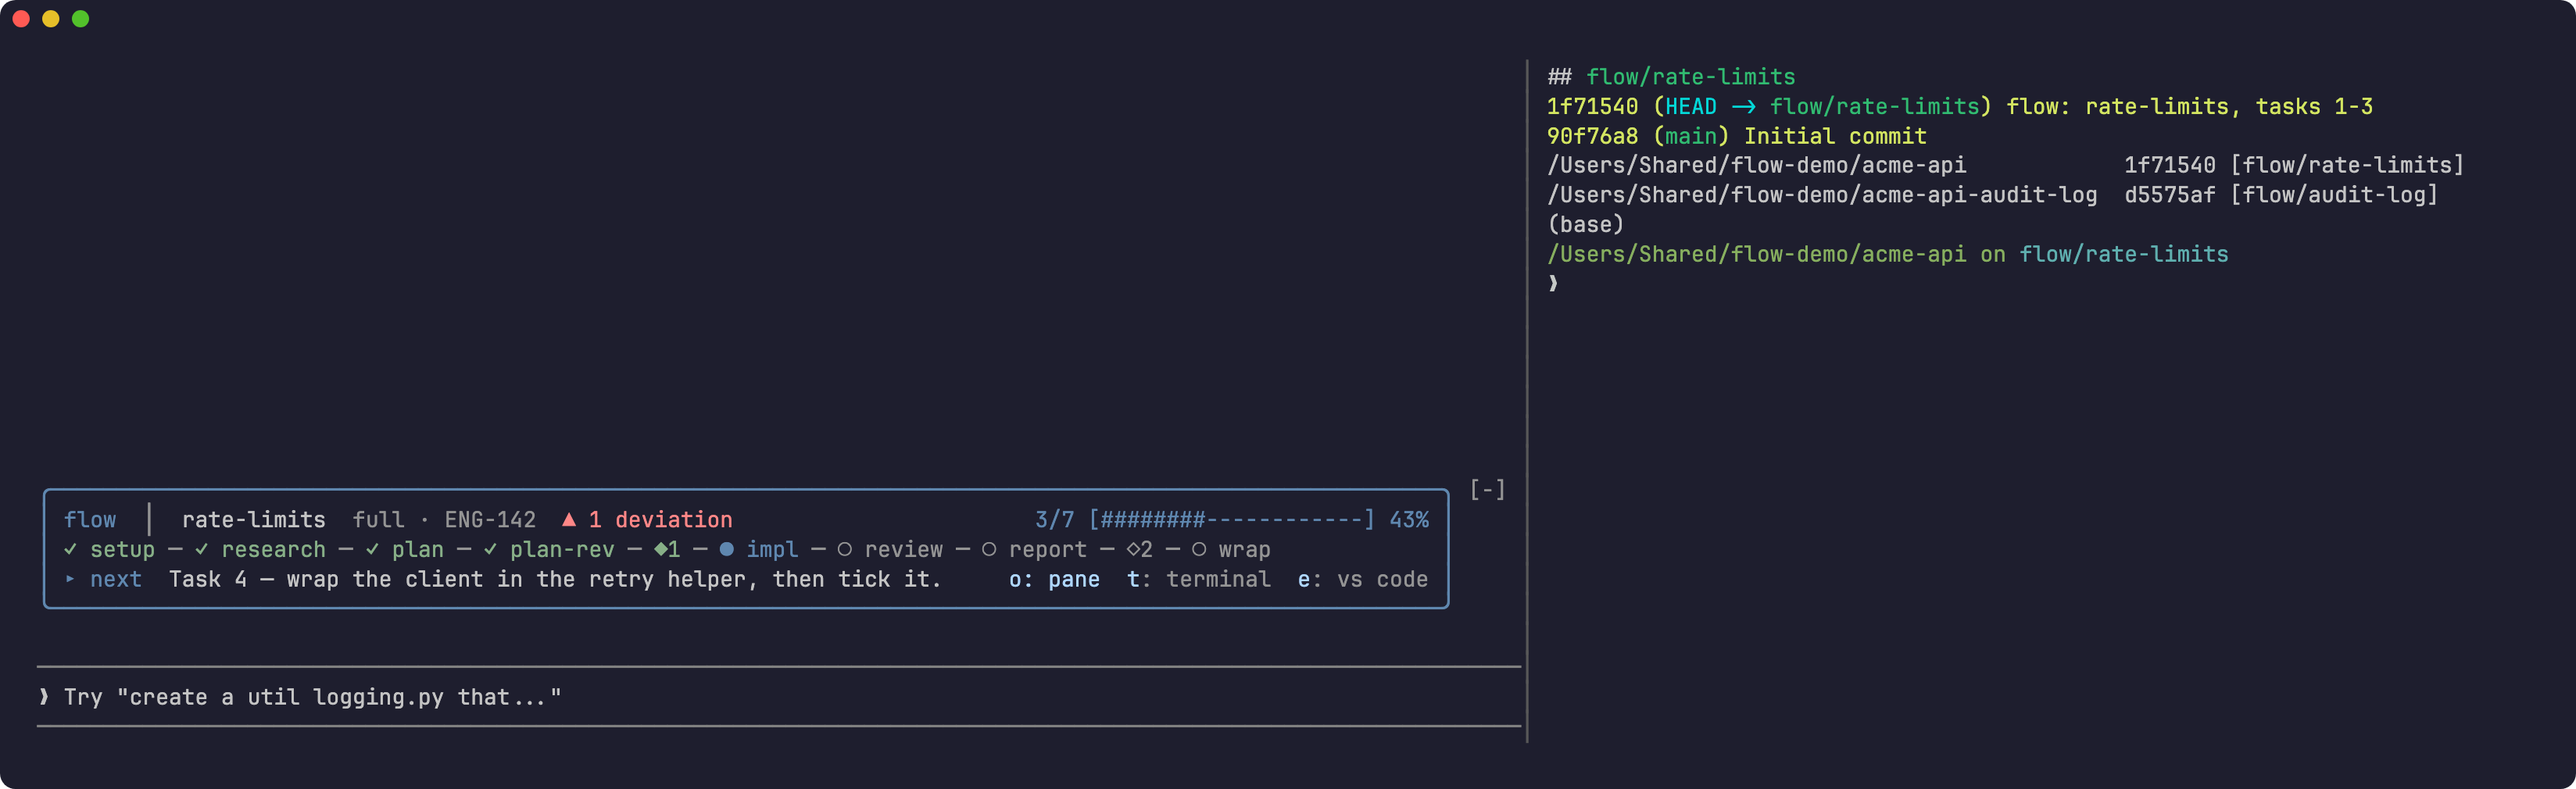
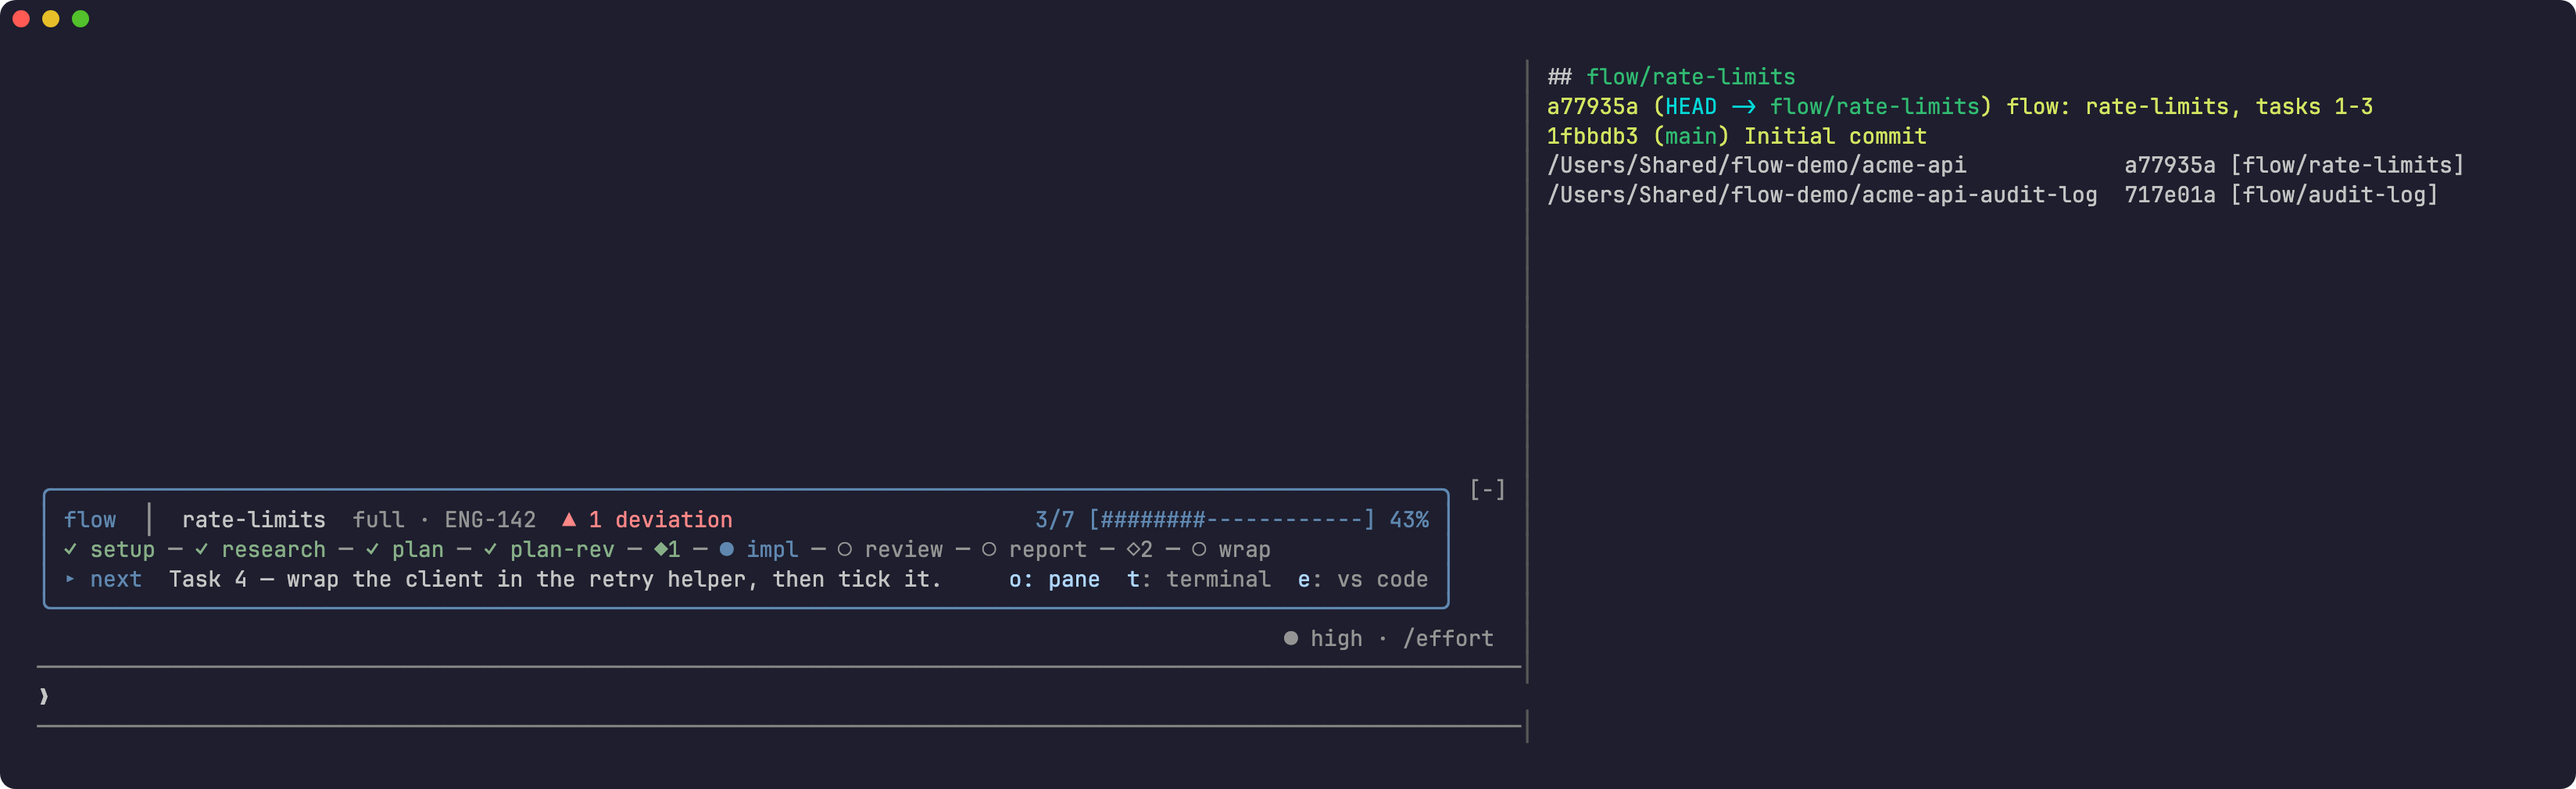
Retake the README images anywhere, from the checkout being changed
shoot.py now runs the same on any machine and for any agent:

- Claude Code loads flow from this checkout (--plugin-dir), with an
  installed flow@flow switched off, so the shots show the branch's code.
- The font is JetBrains Mono 2.304, fetched once to ~/.cache/flow/fonts and
  checked against a pinned hash (byte-identical to the one used so far).
  FONT still overrides it.
- `--check` lists missing tools with the install command for each, and every
  run checks first. Output defaults to docs/images; `--out` changes it.
- The demo dir is /Users/Shared/flow-demo on macOS, /tmp/flow-demo
  elsewhere, FLOW_DEMO_DIR to override. render.sh finds Chrome or Chromium
  on Linux too.
- The setup shot is skipped outside iTerm instead of capturing failures.

Retakes are now reproducible: the seven model-free shots come out
byte-identical run to run. Demo commits have fixed dates (stable hashes in
split.png), the prompt's rotating "Try ..." tip is blanked, flow@inline is
shown as flow@flow, and split.png stops before this machine's shell prompt.
Typed prompts wait until they reach the prompt and are sent, fixing a
`blocked` shot that intermittently timed out.

CLAUDE.md gains a "README images" section: which image shows what, what
change calls for a retake, and how to run and check it. .gitignore covers
the types and tsconfig.json Claude Code writes into a --plugin-dir folder.

Patch bump: 0.8.1 → 0.8.2.

diff --git a/scripts/demo/shoot.py b/scripts/demo/shoot.py
@@ -1,30 +1,47 @@
 #!/usr/bin/env python3
 """Capture the README's screenshots from a live Claude Code session.
 
-    scripts/demo/shoot.py OUT_DIR [SHOT ...]
+    scripts/demo/shoot.py [--check] [--out DIR] [SHOT ...]
 
-Builds the demo repo (make-demo-repo.sh) under /tmp/flowdemo, drives Claude
-Code in a detached tmux session for each shot, crops the screen to the part
-that shows flow, and renders it with render.sh. Needs tmux, freeze, Chrome,
-FONT (see render.sh), and flow installed in Claude Code. The first run asks
-Claude Code to trust the demo folders; this answers yes.
+Builds the demo repo (make-demo-repo.sh) in DEMO (below), drives Claude Code
+in a detached tmux session for each shot, crops the screen to the part that
+shows flow, and renders it with render.sh into DIR (default: docs/images).
+Claude Code loads flow from this checkout (--plugin-dir), with any installed
+copy switched off, so the shots show the code you're changing. The first run
+asks Claude Code to trust the demo folders; this answers yes.
+
+Needs tmux, freeze, Chrome or Chromium, claude, and (for `gif`) ffmpeg.
+`--check` lists what's missing and how to install it; every run checks first.
+The font is JetBrains Mono 2.304, downloaded once to ~/.cache/flow/fonts
+unless FONT names a .ttf.
 
 Shots: hero gate status pane-progress pane-tasks setup blocked split gif
 (default: all). `split` presses `t` with the terminal set to tmux, so flow
-splits this tmux window for real; `gif` approves gate 1 for real — one model
-turn — and needs ffmpeg.
+splits this tmux window for real. `blocked` and `gif` each take a real model
+turn. `setup` shows /flow-term setup's iTerm checklist, so it needs this run
+started inside iTerm with its Python API on; elsewhere it's skipped.
 """
+import argparse
+import hashlib
+import io
 import json
 import os
 import re
+import shlex
+import shutil
 import subprocess
 import sys
 import time
+import urllib.request
+import zipfile
 from pathlib import Path
 
 HERE = Path(__file__).resolve().parent
-# not /tmp: macOS resolves it to /private/tmp, which shows in the pane's paths
-DEMO = Path("/Users/Shared/flow-demo")
+PLUGIN_ROOT_PATH = HERE.parent.parent
+PLUGIN_ROOT = str(PLUGIN_ROOT_PATH)
+# not /tmp on macOS: it resolves to /private/tmp, which shows in the pane's paths
+DEMO = Path(os.environ.get("FLOW_DEMO_DIR")
+            or ("/Users/Shared/flow-demo" if sys.platform == "darwin" else "/tmp/flow-demo"))
 REPO = DEMO / "acme-api"
 WORKTREE = DEMO / "acme-api-audit-log"
 SESSION = "flowshot"
@@ -54,16 +71,55 @@ def keys(*k):
     tmux("send-keys", "-t", SESSION, *k)
 
 
-def start(cwd, settings=None, cols=COLS, rows=ROWS):
-    # tmux hides the terminal's dark background from Claude Code, which then
-    # picks its light theme; say dark, as the person's terminal would
-    settings = json.dumps({"theme": "dark", **(settings or {})})
+def composer():
+    """The prompt line's text: the last row starting ❯."""
+    rows = [plain(l) for l in screen().split("\n") if plain(l).startswith("❯")]
+    return rows[-1][1:].strip() if rows else ""
+
+
+def submit(text):
+    """Type text into the prompt and send it. Early in a session a key can
+    arrive late or not at all, so wait for the text to show, then press Enter
+    until the prompt lets go of it."""
+    keys(text)
+    end = time.time() + 15
+    while text not in composer():
+        if time.time() > end:
+            raise SystemExit(f"{text!r} never reached the prompt:\n{screen()}")
+        time.sleep(0.3)
+    send(text)
+
+
+def send(text):
+    """Press Enter until the prompt, holding text, lets go of it."""
+    for _ in range(3):
+        keys("Enter")
+        end = time.time() + 3
+        while time.time() < end:
+            time.sleep(0.3)
+            if text not in composer():
+                return
+    raise SystemExit(f"Enter didn't send {text!r}:\n{screen()}")
+
+
+def start(cwd, options=None, cols=COLS, rows=ROWS):
+    """Claude Code in cwd, with flow from this checkout and `options` as its
+    settings (terminal, splitSide, ...)."""
+    settings = json.dumps({
+        # tmux hides the terminal's dark background from Claude Code, which
+        # then picks its light theme; say dark, as the person's terminal would
+        "theme": "dark",
+        # an installed flow would load beside this checkout's
+        "enabledPlugins": {"flow@flow": False},
+        # a --plugin-dir plugin reads its options under its bare name
+        "pluginConfigs": {"flow": {"options": options or {}}},
+    })
     tmux("kill-session", "-t", SESSION, check=False)
     tmux("new-session", "-d", "-s", SESSION, "-x", str(cols), "-y", str(rows), "-c", str(cwd))
     # Claude Code shows a tip under the prompt when tmux lacks these
     tmux("set", "-t", SESSION, "-g", "mouse", "on")
     tmux("set", "-t", SESSION, "-g", "focus-events", "on")
-    cmd = f"clear && claude --settings '{settings}'"
+    cmd = f"clear && claude --plugin-dir {shlex.quote(PLUGIN_ROOT)} --settings {shlex.quote(settings)}"
     keys(cmd, "Enter")
     end = time.time() + 30
     while time.time() < end:
@@ -75,7 +131,16 @@ def start(cwd, settings=None, cols=COLS, rows=ROWS):
             break
         time.sleep(0.5)
     wait_for(r"flow\s+│")  # the band's heading: the mod has loaded and read the repo
-    time.sleep(2)
+    # a key sent in the first seconds after that can be lost; probe until the
+    # prompt takes one, then clear it
+    end = time.time() + 30
+    while time.time() < end:
+        keys("C-u", "x")
+        time.sleep(0.7)
+        if re.search(r"^❯\s+x\s*$", screen(), re.M):
+            break
+    keys("C-u")
+    time.sleep(1)
 
 
 def lines():
@@ -147,19 +212,23 @@ def crop_cols(line, c0):
     return "".join(out)
 
 
-PLUGIN_ROOT = str(HERE.parent.parent)
 
 
 HEADER = re.compile(r"Claude Code v\d|with \w+ effort|^\s*[▐▝▘▛▜█]{2}")
 
 
 def tidy(ls, collapse=True):
-    """Paths as they're configured, not as this machine expands them, and
-    (with `collapse`) no run of more than one blank line."""
+    """Paths as they're configured, not as this machine expands them; flow
+    named as an install names it; an empty prompt in place of Claude Code's
+    rotating "Try ..." tip, so a retake changes only what changed; and (with
+    `collapse`) no run of more than one blank line."""
     out = []
     for line in ls:
         line = line.replace(PLUGIN_ROOT, "${CLAUDE_PLUGIN_ROOT}").replace(str(Path.home()), "~")
+        line = line.replace("flow@inline", "flow@flow")  # --plugin-dir's name for it
         line = re.sub(r" · Claude (Max|Pro|Team|Enterprise)\b", "", line)  # the account's plan, in the header
+        if re.match(r'❯\s+Try "', plain(line)):
+            line = line[:line.index("❯") + 1] + "\x1b[0m"
         if collapse and not plain(line).strip() and out and not plain(out[-1]).strip():
             continue
         out.append(line)
@@ -196,9 +265,7 @@ def shot_gate(out):
 
 def shot_status(out):
     start(REPO)
-    keys("/flow-status")
-    time.sleep(1)
-    keys("Enter")
+    submit("/flow-status")
     wait_for(r"other active tasks")
     time.sleep(1)
     ls = lines()
@@ -208,9 +275,7 @@ def shot_status(out):
 
 def pane(out, name, tab_key=None):
     start(REPO, cols=170, rows=50)
-    keys("/flow-pane")
-    time.sleep(1)
-    keys("Enter")
+    submit("/flow-pane")
     wait_for(r"Phases")
     if tab_key:
         keys(tab_key)
@@ -235,10 +300,8 @@ def shot_pane_tasks(out):
 
 
 def shot_setup(out):
-    start(REPO, {"pluginConfigs": {"flow@flow": {"options": {"splitSide": "left", "splitSize": 30}}}})
-    keys("/flow-term setup")
-    time.sleep(1)
-    keys("Enter")
+    start(REPO, {"splitSide": "left", "splitSize": 30})
+    submit("/flow-term setup")
     wait_for(r"✓ ready|▲ .*\n.*▸", 120)
     time.sleep(1)
     ls = lines()
@@ -248,9 +311,7 @@ def shot_setup(out):
 
 def shot_blocked(out):
     start(WORKTREE)
-    keys("Use the Edit tool to add a one-line comment at the top of src/server.ts saying what it does.")
-    time.sleep(1)
-    keys("Enter")
+    submit("Use the Edit tool to add a one-line comment at the top of src/server.ts saying what it does.")
     wait_for(r"flow blocked", 180)
     time.sleep(0.3)
     # the refused edit in the transcript, down to the straw band below it
@@ -282,9 +343,15 @@ def shot_gif(out):
     start(WORKTREE, cols=GIF_COLS, rows=GIF_ROWS + 6)
     grab(2.5)
     keys("C-x"); time.sleep(0.3); keys("Tab"); time.sleep(0.8)
-    keys("a"); time.sleep(1.2)
+    keys("a")
+    end = time.time() + 10
+    while not composer() or composer().startswith('Try "'):  # the drafted reply, not the placeholder
+        if time.time() > end:
+            raise SystemExit(f"`a` drafted nothing:\n{screen()}")
+        time.sleep(0.3)
+    time.sleep(0.8)
     grab(2.5)
-    keys("Enter")
+    send(composer())
     end = time.time() + 240
     while time.time() < end:
         time.sleep(1)
@@ -323,7 +390,7 @@ GIF_COLS, GIF_ROWS = 104, 26
 def shot_split(out):
     """`t` beside the session: flow's terminal setting at tmux, a split on the
     right at 40%, and a command run there, both panes captured side by side."""
-    start(REPO, {"pluginConfigs": {"flow@flow": {"options": {"terminal": "tmux", "splitSide": "right", "splitSize": 40}}}},
+    start(REPO, {"terminal": "tmux", "splitSide": "right", "splitSize": 40},
           cols=190, rows=26)
     first = tmux("display", "-p", "-t", SESSION, "#{pane_id}").strip()
     keys("C-x"); time.sleep(0.3); keys("Tab"); time.sleep(0.8); keys("t")
@@ -340,6 +407,8 @@ def shot_split(out):
     time.sleep(1)
     cap = lambda p: tmux("capture-pane", "-p", "-e", "-N", "-t", p).split("\n")
     left, right = cap(first), cap(other)
+    # the command's output, not the shell prompt after it (that's this machine's)
+    right = right[:index(right, r"acme-api-audit-log", last=True) + 1]
     bottom = index(left, r"^─{30,}", last=True)  # the composer's lower rule; the status line goes
     width = max(len(plain(l)) for l in left[:bottom + 1])
     rows = []
@@ -359,17 +428,93 @@ SHOTS = {
 }
 
 
+FONT_URL = "https://github.com/JetBrains/JetBrainsMono/releases/download/v2.304/JetBrainsMono-2.304.zip"
+FONT_TTF = "fonts/ttf/JetBrainsMono-Regular.ttf"
[1 lines of base64/hex data omitted]
+FONT_CACHE = Path(os.environ.get("XDG_CACHE_HOME") or Path.home() / ".cache") / "flow/fonts/JetBrainsMono-Regular.ttf"
+
+
+def font():
+    """FONT if set, else the pinned JetBrains Mono, fetched once and checked
+    against its hash, so every machine renders the same glyphs."""
+    if os.environ.get("FONT"):
+        return Path(os.environ["FONT"])
+    if not FONT_CACHE.is_file():
+        print(f"fetching JetBrains Mono 2.304 to {FONT_CACHE}")
+        with urllib.request.urlopen(FONT_URL, timeout=60) as r:
+            ttf = zipfile.ZipFile(io.BytesIO(r.read())).read(FONT_TTF)
+        if hashlib.sha256(ttf).hexdigest() != FONT_SHA256:
+            raise SystemExit(f"{FONT_URL}: {FONT_TTF} doesn't match its pinned hash")
+        FONT_CACHE.parent.mkdir(parents=True, exist_ok=True)
+        FONT_CACHE.write_bytes(ttf)
+    return FONT_CACHE
+
+
+def chrome():
+    """The browser render.sh would use: CHROME, else Chrome where macOS
+    installs it, else a Chrome or Chromium on PATH."""
+    if os.environ.get("CHROME"):
+        return os.environ["CHROME"]
+    mac = "/Applications/Google Chrome.app/Contents/MacOS/Google Chrome"
+    if Path(mac).exists():
+        return mac
+    return next(filter(None, map(shutil.which, (
+        "google-chrome", "google-chrome-stable", "chromium", "chromium-browser"))), None)
+
+
+def missing(shots):
+    """What this run needs and doesn't have, each with its fix."""
+    brew = sys.platform == "darwin"
+    need = [
+        ("tmux", shutil.which("tmux"), "brew install tmux" if brew else "install tmux from your package manager"),
+        ("claude", shutil.which("claude"), "install Claude Code: npm install -g @anthropic-ai/claude-code"),
+        # a Homebrew cask is also called freeze; this is Charm's CLI
+        ("freeze", shutil.which("freeze"), "brew install charmbracelet/tap/freeze" if brew
+         else "go install github.com/charmbracelet/freeze@latest"),
+        ("Chrome or Chromium", chrome(), "install Google Chrome, or set CHROME to a Chromium binary"),
+    ]
+    if "gif" in shots:
+        need.append(("ffmpeg", shutil.which("ffmpeg"), "brew install ffmpeg" if brew
+                     else "install ffmpeg from your package manager"))
+    return [(name, fix) for name, found, fix in need if not found]
+
+
 def main(argv):
-    if not argv:
-        raise SystemExit(__doc__)
-    out = Path(argv[0]).resolve()
+    ap = argparse.ArgumentParser(description="Retake the README's screenshots.")
+    ap.add_argument("shots", nargs="*", metavar="SHOT", help=f"any of: {' '.join(SHOTS)} (default: all)")
+    ap.add_argument("--out", type=Path, default=PLUGIN_ROOT_PATH / "docs/images",
+                    help="where the images go (default: docs/images)")
+    ap.add_argument("--check", action="store_true", help="list what's missing, then stop")
+    args = ap.parse_args(argv)
+    unknown = [s for s in args.shots if s not in SHOTS]
+    if unknown:
+        ap.error(f"unknown shot {' '.join(unknown)}; shots are: {' '.join(SHOTS)}")
+    shots = args.shots or list(SHOTS)
+    skipped = []
+    if "setup" in shots and not os.environ.get("ITERM_SESSION_ID"):
+        shots.remove("setup")
+        skipped.append("setup: not run inside iTerm, so /flow-term setup's checklist would show failures")
+
+    gaps = missing(shots)
+    for name, fix in gaps:
+        print(f"✗ {name}: {fix}")
+    for why in skipped:
+        print(f"– skipping {why}")
+    if args.check:
+        font_note = os.environ.get("FONT") or (FONT_CACHE if FONT_CACHE.is_file() else "fetched on first run")
+        print(f"font: {font_note}\ndemo repo: {DEMO}")
+        if not gaps:
+            print(f"✓ ready: {' '.join(shots)}")
+        raise SystemExit(1 if gaps else 0)
+    if gaps:
+        raise SystemExit("install what's missing above, then run again")
+
+    os.environ["FONT"] = str(font())
+    out = args.out.resolve()
     out.mkdir(parents=True, exist_ok=True)
-    os.environ.setdefault("FONT", "")
-    if not os.environ["FONT"]:
-        raise SystemExit("set FONT to a JetBrains Mono .ttf (see render.sh)")
     subprocess.run([str(HERE / "make-demo-repo.sh"), str(DEMO)], check=True, stdout=subprocess.DEVNULL)
     try:
-        for name in argv[1:] or SHOTS:
+        for name in shots:
             SHOTS[name](out)
     finally:
         tmux("kill-session", "-t", SESSION, check=False)

diff --git a/CLAUDE.md b/CLAUDE.md
@@ -46,3 +46,38 @@ CI (`.github/workflows/version-bump.yml`) runs the same script on every PR and
 fails it when the version is unchanged or the manifests disagree. Escape hatch,
 user-only: label the PR `no-version-bump`. The check must be marked required in
 branch protection for `main` to actually block a merge.
+
+## README images
+
+The images in `docs/images/` are captured from a live Claude Code session,
+never drawn by hand. Retake them in the PR that changes what they show:
+
+| Image | Shot | Shows | Retake after changing |
+|---|---|---|---|
+| `hero.png` | `hero` | the rail mid-implementation | the band (`hooks/mod/band.tsx`, `look.tsx`), the snapshot (`hooks/flow_status.py`) |
+| `gate.png` | `gate` | the rail at gate 1 | the band, gate actions |
+| `gate.gif` | `gif` | approving gate 1 (one model turn) | the band, gate actions, phase toasts |
+| `blocked.png` | `blocked` | a refused edit (one model turn) | the validator's message, the refusal toast |
+| `pane-progress.png`, `pane-tasks.png` | `pane-progress`, `pane-tasks` | `/flow-pane` | `hooks/mod/pane.tsx` |
+| `status.png` | `status` | `/flow-status` | `hooks/mod/status.tsx`, `hooks/flow_status.py` |
+| `split.png` | `split` | `t` opening a terminal | `hooks/flow_open.py`, the band's key hints |
+| `setup.png` | `setup` | `/flow-term setup` (iTerm only) | `hooks/flow_iterm.py`, the setup checklist |
+
+    scripts/demo/shoot.py --check     # what's missing, with install commands
+    scripts/demo/shoot.py             # every shot, into docs/images (~6 min)
+    scripts/demo/shoot.py gate hero   # just these
+
+- It loads flow from this checkout, so run it from the branch or worktree
+  being changed, after the code change.
+- It needs tmux, freeze, Chrome or Chromium, claude and ffmpeg. The font is
+  fetched and hash-checked on first run.
+- The `setup` shot runs only inside iTerm with its Python API on. Elsewhere it
+  is skipped and the old image stays.
+- Seven shots are byte-identical from run to run, so if one of their files
+  changed, the picture changed. `blocked` and `gif` include a model turn and
+  differ every run, so retake them only when what they show has changed.
+- Open every image it wrote before committing. Each one should show what the
+  README text next to it says, with no stray toasts, a light theme or cut-off
+  rows. If the README text no longer matches the UI, fix the text too.
+- The demo repo is rebuilt from `scripts/demo/make-demo-repo.sh` each run.
+  Change the fictional tasks there, not by hand.

diff --git a/README.md b/README.md
@@ -177,8 +177,9 @@ python3 scripts/check_version_bump.py main # version is bumped
 
 Every PR bumps the version (see [CLAUDE.md](CLAUDE.md)). The screenshots are
 captured from a live session in a made-up repo by
-[`scripts/demo/shoot.py`](scripts/demo/shoot.py), so they can be retaken when
-the UI changes.
+[`scripts/demo/shoot.py`](scripts/demo/shoot.py), loading flow from your
+checkout, so they can be retaken when the UI changes: `scripts/demo/shoot.py
+--check`, then `scripts/demo/shoot.py`. CLAUDE.md says which image shows what.
 
 ## License
 
